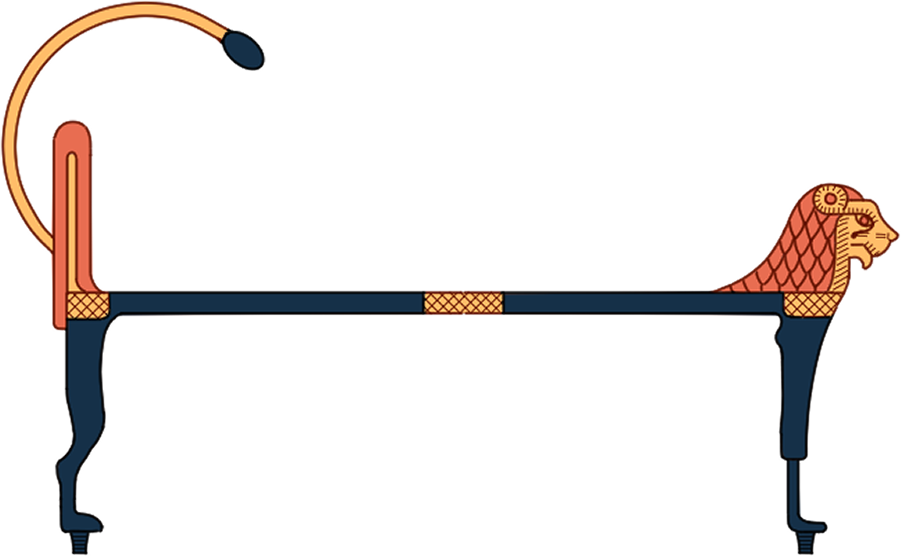
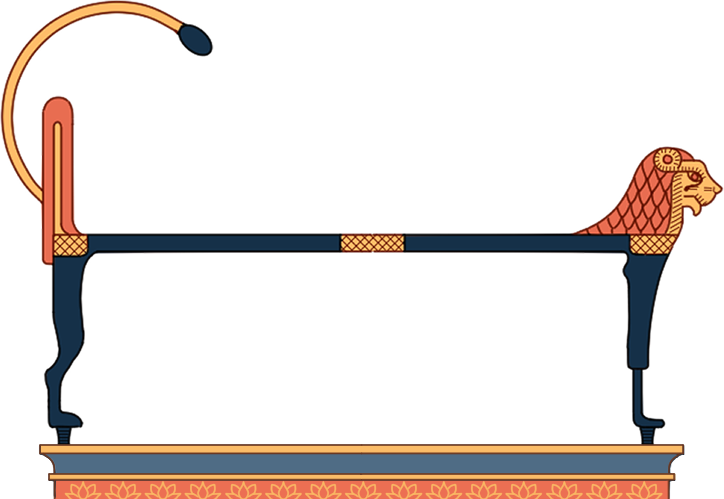
20220221 bed

Changed region(s): [[0.0, 0.0, 1.0, 1.0], [0.0608, 0.1804, 0.1215, 0.3006]]

diff --git a/src/main/webapp/resources/js/ch03.js b/src/main/webapp/resources/js/ch03.js
@@ -83,6 +83,8 @@ function init() {
 	var bg1 = $("#background > img:nth-child(1)");
 	bg1.width(bg1.prop("naturalWidth") * w);
 	bg1.height(bg1.prop("naturalHeight") * w);
+	bg1.css("left", x - (bg1.width() / 2.0) + 10*w);
+	bg1.css("bottom", b);
 	
 	var bg2 = $("#background > img:nth-child(2)");
 	bg2.width(bg2.prop("naturalWidth") * w);
@@ -102,14 +104,11 @@ function init() {
 	bg4.css("left", x + 600*w);
 	bg4.css("bottom", $("#dialogue").height() + 5*w);
 	
-	b = 0;
 	if(scene == 8) {
-		b = canopic_two(); 
+		canopic_two(); 
 	} else { 
-		b = canopic_one(); 
+		canopic_one(); 
 	}
-	bg1.css("left", x - (bg1.width() / 2.0) + 10*w);
-	bg1.css("bottom", b);
 }
 
 function object(select, index, arrIndex) {
@@ -133,70 +132,47 @@ function objectSubmit(select) {
 }
 
 function canopic_one() {
-/*	for(var i = 1; i < 5; i++) {
-		var caW = $("#ca" + i).width() * w;
-		var caH = $("#ca" + i).height() * w;
-		$("#ca" + i).width(caW);
-		$("#ca" + i).height(caH);
-	}
-*/
 	var caH = $("#ca1").height();
 	var ca_bottom = $("#dialogue").height() + 10*w;
-	$("#ca1").width($("#ca1").prop("naturalWidth") * w);
-	$("#ca1").height($("#ca1").prop("naturalHeight") * w);
+	resize("#ca1");
 	$("#ca1").css("bottom", ca_bottom);
 	$("#ca1").css("left", x - 237*w);
 		
 	for(var i = 2; i < 5; i++) {
-		$("#ca" + i).width($("#ca" + i).prop("naturalWidth") * w);
-		$("#ca" + i).height($("#ca" + i).prop("naturalHeight") * w);
+		resize("#ca" + i);
 		$("#ca" + i).css("bottom", ca_bottom);
 		$("#ca" + i).css("left", x + (-312 + (125 * i) - 50)*w);
 	}
-	return ((ca_bottom + caH / 3 - 5) * w);
 }
 
 function canopic_two() {
-/*	for(var i = 1; i < 5; i++) {
-		var caW = $("#ca" + i + "_1").width() * w;
-		var caH = $("#ca" + i + "_1").height() * w;
-		$("#ca" + i + "_1").width(caW);
-		$("#ca" + i + "_1").height(caH);
-			
-		caW = $("#ca" + i + "_0").width() * w;
-		caH = $("#ca" + i + "_0").height() * w;	
-		$("#ca" + i + "_0").width(caW);
-		$("#ca" + i + "_0").height(caH);
-	}
-*/
 	var caH = $("#ca1_0").height();
 	var ca_bottom_0 = $("#dialogue").height() + 10*w;
 	var ca_bottom_1 = $("#ca1_1").height() / 3 + ca_bottom_0;
-	$("#ca1_0").width($("#ca1_0").prop("naturalWidth") * w);
-	$("#ca1_0").height($("#ca1_0").prop("naturalHeight") * w);
-	$("#ca1_1").width($("#ca1_1").prop("naturalWidth") * w);
-	$("#ca1_1").height($("#ca1_1").prop("naturalHeight") * w);
+	resize("#ca1_0");
+	resize("#ca1_1");
 	$("#ca1_0").css("bottom", ca_bottom_0);
 	$("#ca1_0").css("left", x - 227*w);
 	$("#ca1_1").css("bottom", ca_bottom_1);
 	$("#ca1_1").css("left", x - 237*w);
 		
 	for(var i = 2; i < 5; i++) {
-		$("#ca" + i + "_0").width($("#ca" + i + "_0").prop("naturalWidth") * w);
-		$("#ca" + i + "_0").height($("#ca" + i + "_0").prop("naturalHeight") * w);
-		$("#ca" + i + "_1").width($("#ca" + i + "_0").prop("naturalWidth") * w);
-		$("#ca" + i + "_1").height($("#ca" + i + "_0").prop("naturalHeight") * w);
+		resize("#ca" + i + "_0");
+		resize("#ca" + i + "_1");
 		$("#ca" + i + "_0").css("bottom", ca_bottom_0);
 		$("#ca" + i + "_0").css("left", x + (-312 + (125 * i) - 40)*w);
 		$("#ca" + i + "_1").css("bottom", ca_bottom_1);
 		$("#ca" + i + "_1").css("left", x + (-312 + (125 * i) - 50)*w);
 	}
-	return ((ca_bottom_0 + caH / 3 - 5) * w);
 }
 
 function center(element) {
 	x = $("#background").width() / 2.0;
-	y = $("#background").height() / 2.0 + 100*w;
 	$(element).css("left", x - ($(element).width() / 2));
-	$(element).css("top", y - ($(element).height() / 2));
+	$(element).css("bottom", $("#dialogue").height() + 265*w);
+}
+
+function resize(element) {
+	$(element).width($(element).prop("naturalWidth") * w);
+	$(element).height($(element).prop("naturalHeight") * w);
 }

diff --git a/src/main/webapp/resources/js/interaction/ch03/kabaDrag.js b/src/main/webapp/resources/js/interaction/ch03/kabaDrag.js
@@ -1,6 +1,8 @@
 $(function() {
+	resize("#human");
 	center("#human");
 	center("#dragSpot");
+	$("#dragSpot").css("bottom", $("#dialogue").height() + 265*w + $("#human").height()/2);
 	if(scene == 3) {
 		var left = $('#dragSpot').offset().left;
 		var top = $('#dragSpot').offset().top;
@@ -121,6 +123,7 @@ function nextSpotInit() {
 		$('#dragLine').attr('style', "transform: rotate(-45deg);");
 		$('#dragDest').attr('style', "width: 100px; height: 100px;");
 		center("#dragSpot");
+		$("#dragSpot").css("bottom", $("#dialogue").height() + 265*w + $("#human").height()/2);
 		$('#dragLine').css("top", $('#human').offset().top - ($('#dragLine').width() / Math.sqrt(2)) / 2);
 		$('#dragLine').css("left", x);
 		$('#dragDest').css("top", $('#dragLine').offset().top - ($('#dragDest').height() / 2));
